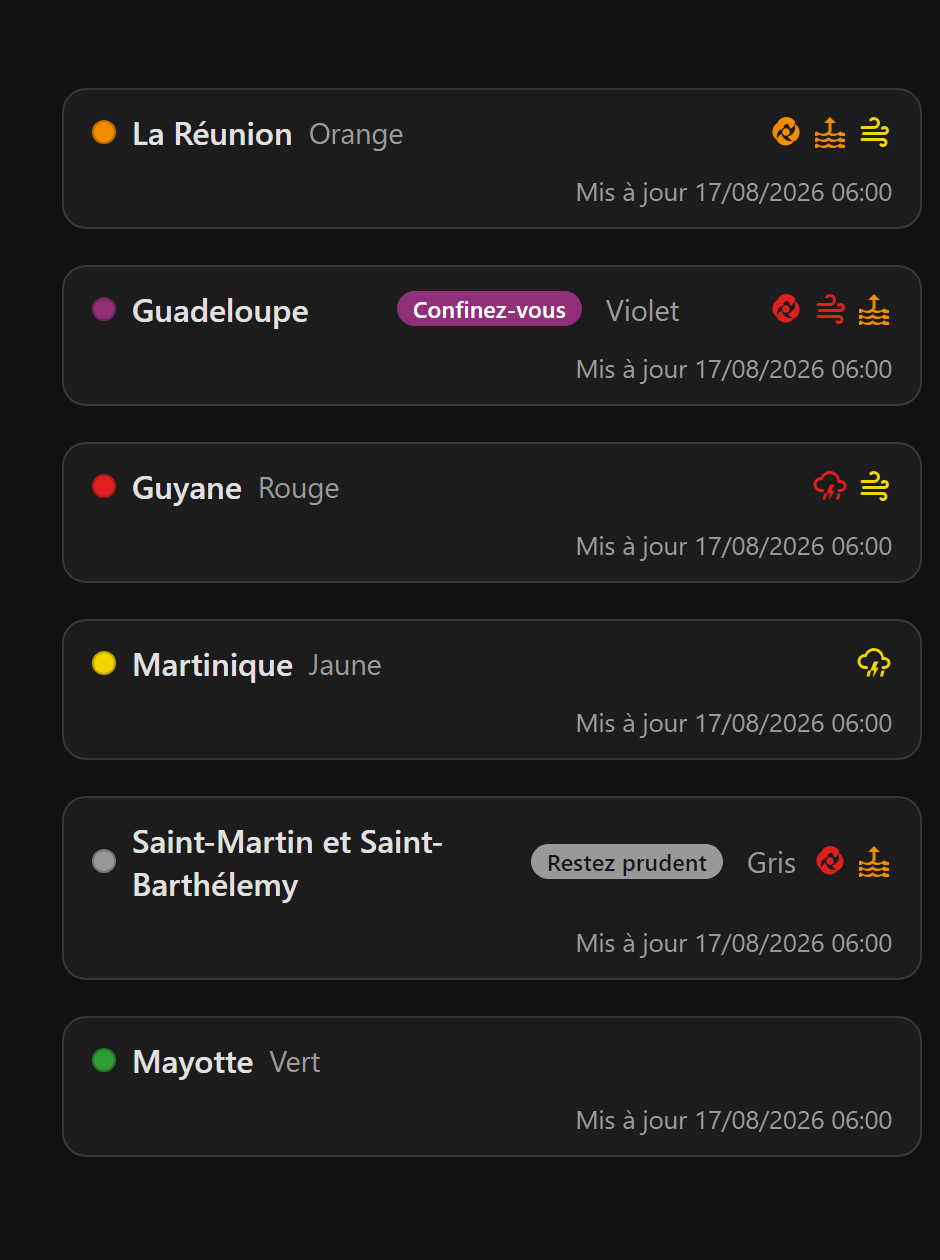
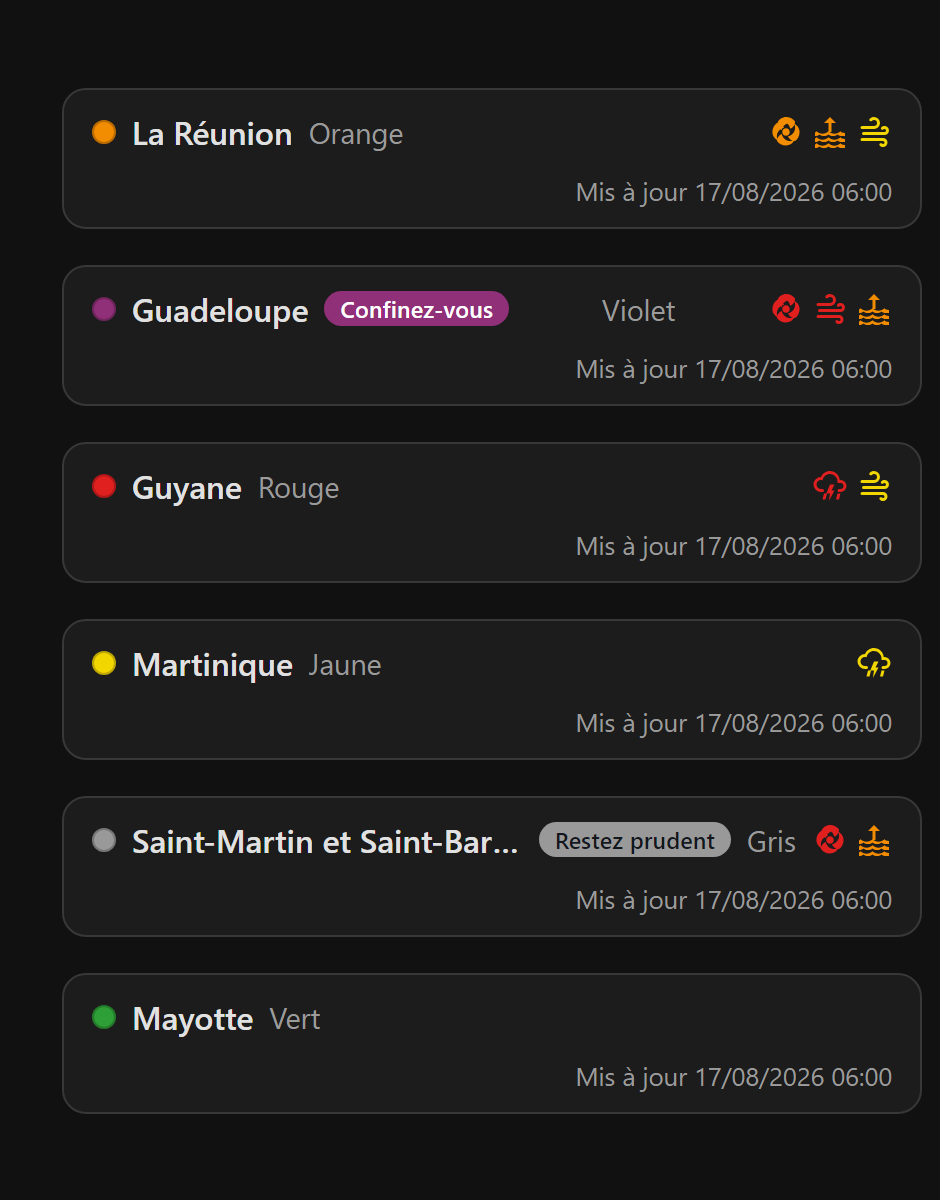
v2 : placer la consigne près de ce qu'elle qualifie
Le badge était poussé à droite avec le niveau, loin du nom auquel il se
rapporte. Il suit désormais ce nom, et le niveau garde sa place au bout de la
ligne.

En disposition compacte, la ligne porte le nom du domaine, qui peut être
long : « Saint-Martin et Saint-Barthélemy » rejetait la consigne et les
icônes à la ligne suivante. C'est le nom qui cède maintenant, en s'abrégeant
— la consigne et le niveau portent l'information, ils ne se compriment pas.

diff --git a/custom_components/meteo_france_vigilance/frontend/meteo-france-vigilance-card.js b/custom_components/meteo_france_vigilance/frontend/meteo-france-vigilance-card.js
@@ -1386,10 +1386,24 @@ class MeteoFranceVigilanceCard extends HTMLElement {
         font-size: 0.72em; font-weight: 600; letter-spacing: 0.01em;
         white-space: nowrap;
       }
-      /* Le niveau perd sa marge automatique quand la consigne la prend : sans
-         cela, les deux se disputeraient la droite de la ligne. */
-      .head:has(.notice:not([style*="none"])) .level { margin-left: 4px; }
-      .head:has(.notice:not([style*="none"])) .notice { margin-left: auto; }
+      /* La consigne suit le nom du jour, qu'elle qualifie ; le niveau garde
+         sa place à droite de la ligne. */
+      .notice { margin-right: auto; }
+
+      /* En compact, la ligne porte le nom du domaine, qui peut être long —
+         « Saint-Martin et Saint-Barthélemy » tient mal à côté d'une consigne
+         et de trois icônes. Le nom cède donc la place le premier, en
+         s'abrégeant, plutôt que de rejeter les icônes à la ligne suivante. */
+      .compact .head { flex-wrap: nowrap; }
+      .compact .label {
+        min-width: 0;
+        overflow: hidden;
+        text-overflow: ellipsis;
+        white-space: nowrap;
+      }
+      /* La consigne et le niveau ne se compriment jamais : ce sont eux qui
+         portent l'information. */
+      .compact .notice, .compact .level, .compact .icon-row { flex: 0 0 auto; }
 
       .stale {
         position: absolute; top: 6px; left: 6px;
